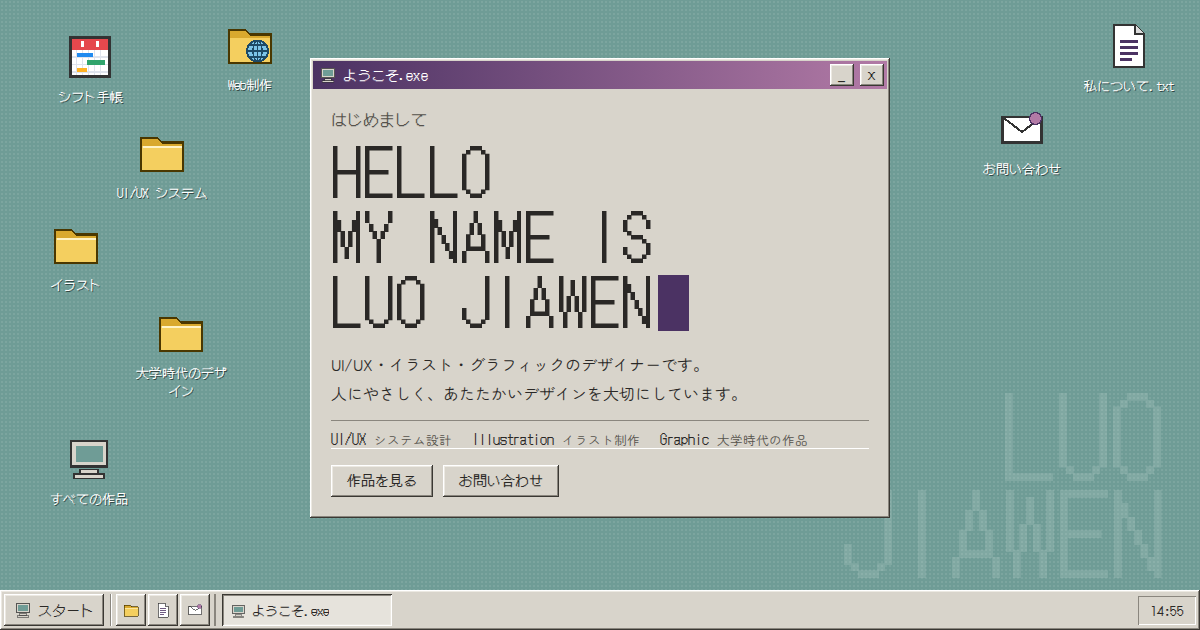
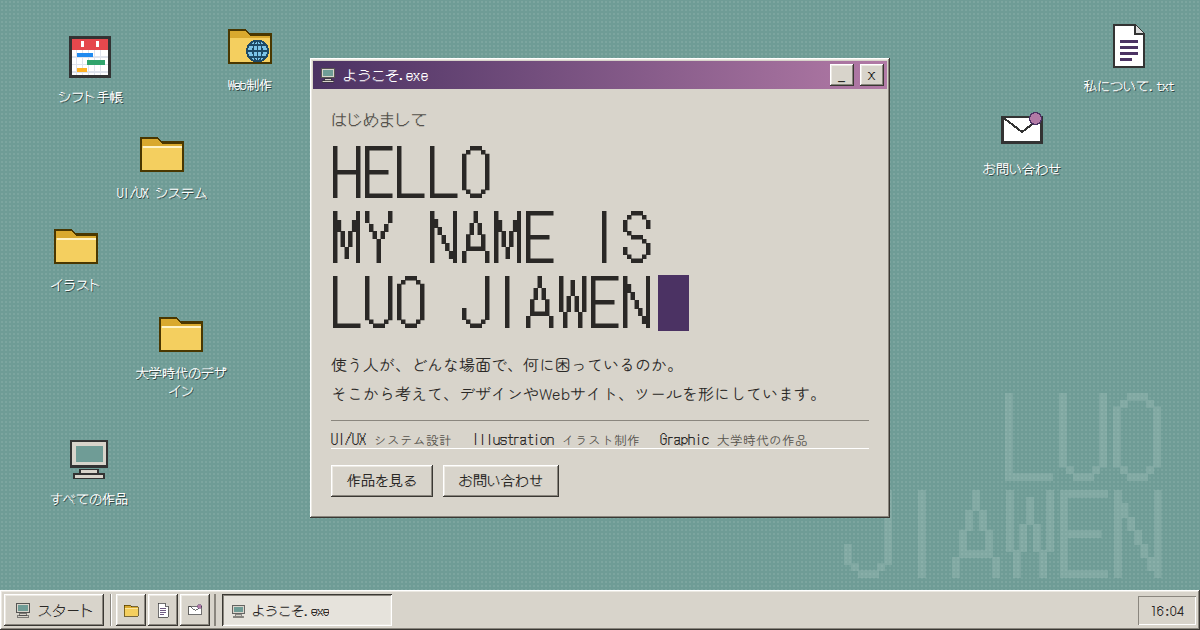
Update welcome intro text and sharing preview image
Claude-Session: https://claude.ai/code/session_01TUuDej7PTE1WkXh9Pefr4z

Changed region(s): [[0.2775, 0.573, 0.6783, 0.6333], [0.9558, 0.9651, 0.9867, 0.9952]]

diff --git a/assets/css/style.css b/assets/css/style.css
@@ -200,6 +200,7 @@ body.ready .entry { animation: icon-in .25s steps(3) backwards; animation-delay:
 .cursor { display: inline-block; width: .5em; height: .9em; margin-left: .08em; background: var(--title-a); vertical-align: -.08em; animation: blink 1s steps(1) infinite; }
 @keyframes blink { 50% { opacity: 0; } }
 .hello > p:not([class]) { margin: 0 0 12px; line-height: 1.8; }
+.nb { display: inline-block; }   /* 途中で改行しないまとまり */
 .fields { list-style: none; display: flex; flex-wrap: wrap; gap: 2px 20px; margin: 0; padding: 8px 0 0; border-top: 1px solid var(--shade); box-shadow: 0 -1px 0 var(--light) inset; font-size: 12.5px; color: var(--muted); }
 .fields b { font-family: var(--pixel); font-weight: 400; font-size: 14px; color: var(--ink); margin-right: 4px; }
 

diff --git a/index.html b/index.html
@@ -41,7 +41,7 @@
     <h1 class="hello-big">
       <span>HELLO</span> <span>MY NAME IS</span> <span>LUO JIAWEN<span class="cursor" aria-hidden="true"></span></span>
     </h1>
-    <p>UI/UX・イラスト・グラフィックのデザイナーです。<br>人にやさしく、あたたかいデザインを大切にしています。</p>
+    <p>使う人が、どんな場面で、何に困っているのか。<br>そこから考えて、デザインやWebサイト、<span class="nb">ツールを形にしています。</span></p>
     <ul class="fields" aria-label="制作領域">
       <li><b>UI/UX</b> システム設計</li>
       <li><b>Illustration</b> イラスト制作</li>
